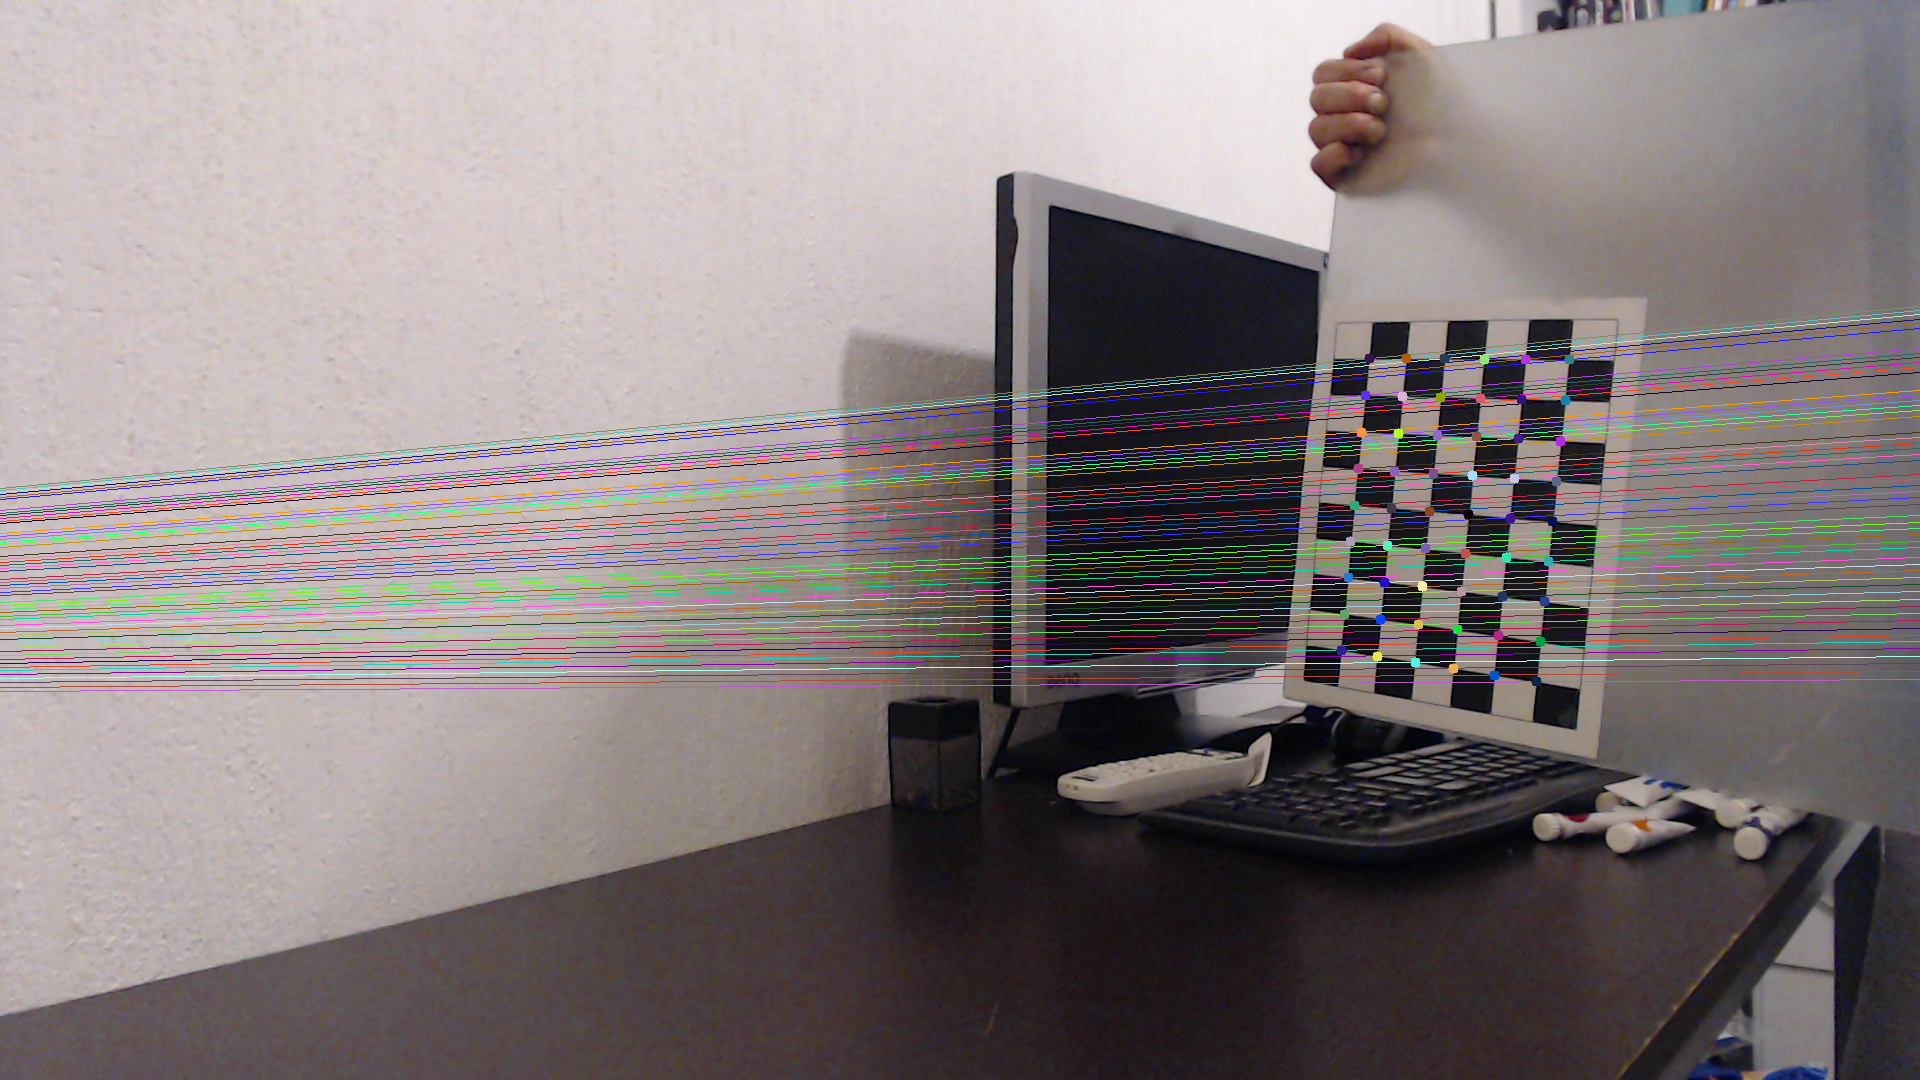
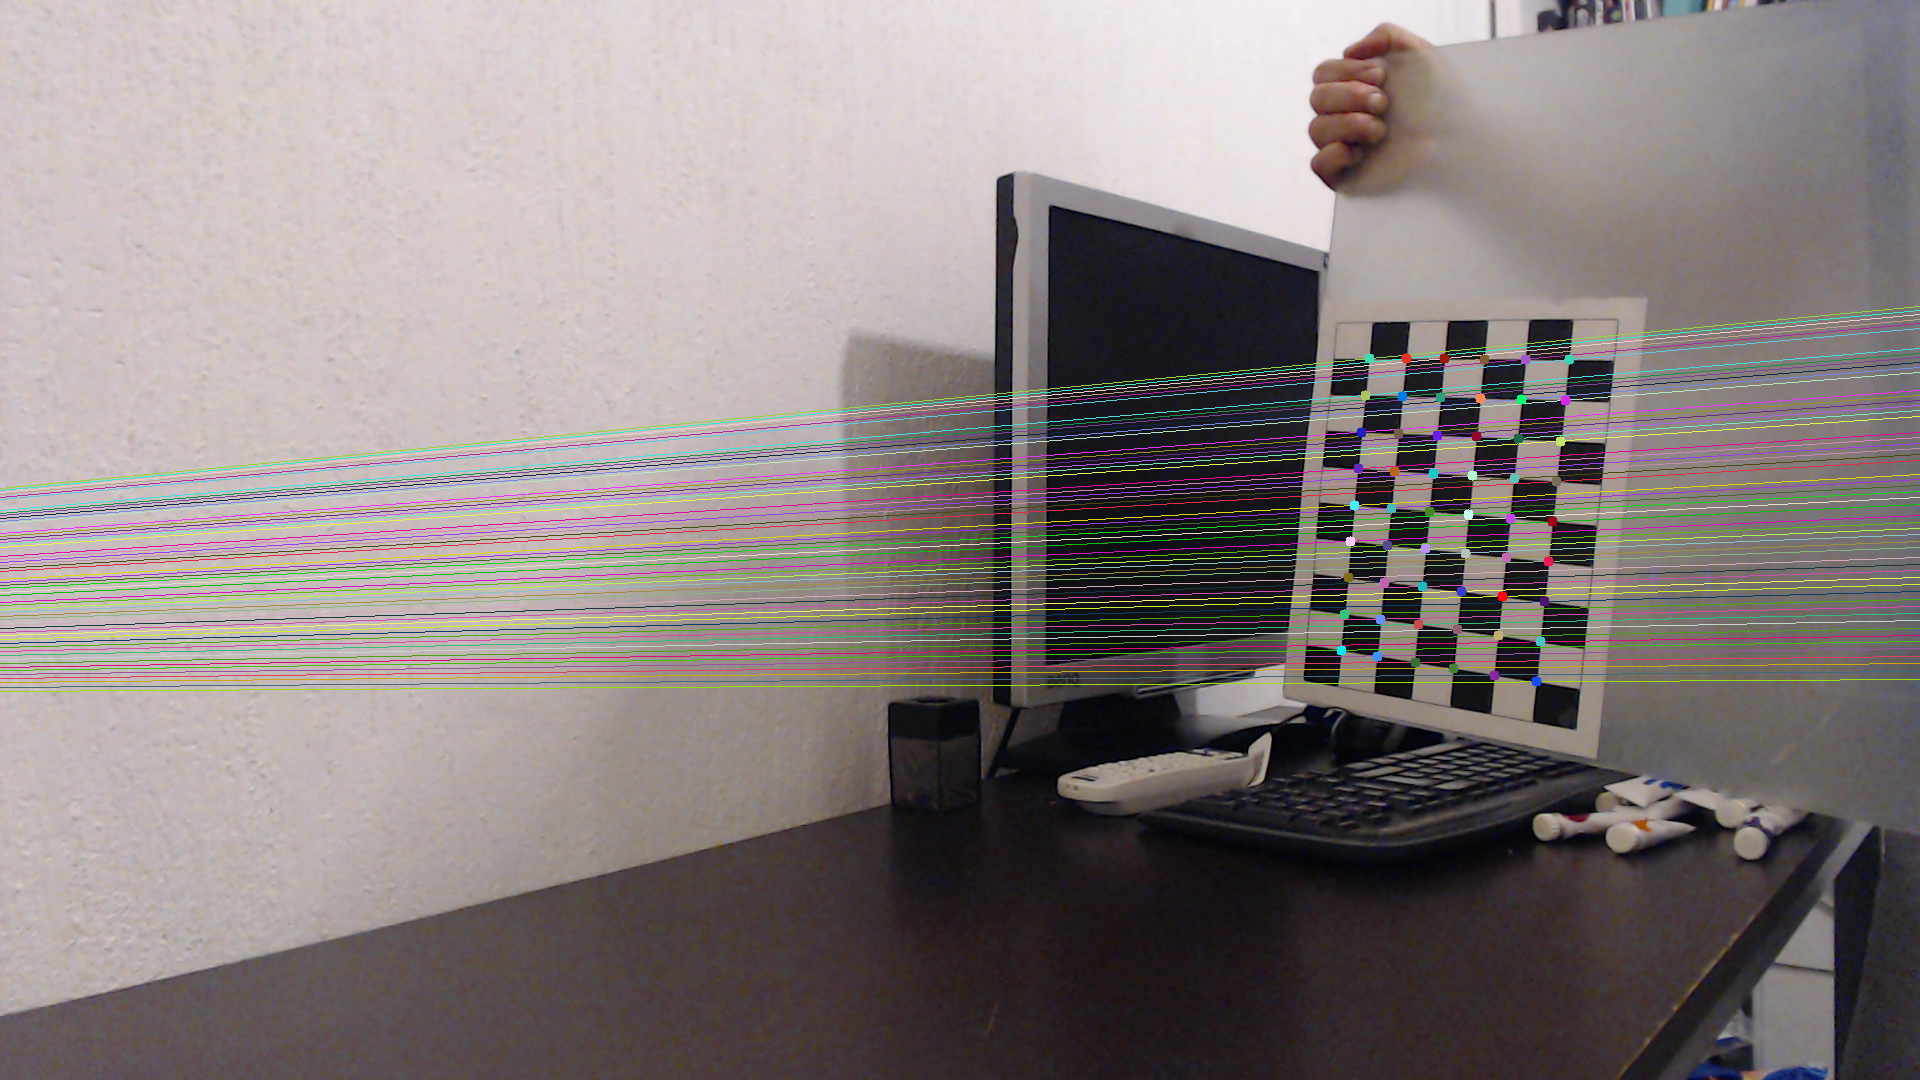
8 point algorithm program is working

Changed region(s): [[0.0, 0.275, 1.0, 0.6417]]

diff --git a/find_fund_matrix_8point.py b/find_fund_matrix_8point.py
@@ -82,7 +82,7 @@ else:
         # -- Read the file and convert in greyscale
         img_r = cv2.imread(fname)
         # Clone the original image to keep original unchanged
-        img1 = img_r.copy()
+        img2 = img_r.copy()
         # Convert to grayscale
         gray = cv2.cvtColor(img_r, cv2.COLOR_BGR2GRAY)
         print("Reading image ", fname)
@@ -131,7 +131,7 @@ else:
         # -- Read the file and convert in greyscale
         img_l = cv2.imread(fname)
         # Clone the original image to keep original unchanged
-        img2 = img_l.copy()
+        img1 = img_l.copy()
         # Convert to grayscale
         gray = cv2.cvtColor(img_l, cv2.COLOR_BGR2GRAY)
         print("Reading image ", fname)
@@ -209,10 +209,88 @@ coord_left = np.flipud(left_coord)
 # Add z coordinates with ones
 z_coord = np.ones((54, 1), np.float32)
 # Now, join z coordinates to the left of RIGHT coordinates
-right_coord = np.concatenate((right_coord, z_coord), axis=1)
-left_coord = np.concatenate((left_coord, z_coord), axis=1)
+right_coord = np.concatenate((coord_right, z_coord), axis=1)
+left_coord = np.concatenate((coord_left, z_coord), axis=1)
 
+# Reshape to 3 * 54
+#coord_right = np.reshape(right_coord,(3,54))
+#coord_left = np.reshape(left_coord,(3,54))
+coord_right = right_coord.T
+coord_left = left_coord.T
+# - - - - - - - - - -  New Code  - - - - - - - - - - - - - -
 
+def compute_fundamental(x1x,x2x):
+    """ Computes the fundamental matrix from corresponding points
+                (x1x,x2x 3*n arrays) using the 8 point algorithm.
+                Each row in the Ax matrix below is constructed as
+                [x*x', x*y', x, y*x', y*y', y, x', y', 1]
+    """
+    n = x1x.shape[1]
+    if x2x.shape[1] != n:
+        raise ValueError("Number of points don't match.")
+
+    '''
+    Your Code Here!
+    '''
+    # build matrix for equations
+    Ax = np.zeros((n,9))
+    indice = 0
+
+    # [x*x', x*y', x, y*x', y*y', y, x', y', 1]
+    while indice < n:
+        Ax[indice][0] = x1x[0][indice] * x2x[0][indice]  # x*x'
+        Ax[indice][1] = x1x[0][indice] * x2x[1][indice]  # x*y'
+        Ax[indice][2] = x1x[0][indice]                   # x
+        Ax[indice][3] = x1x[1][indice] * x2x[0][indice]  # y*x'
+        Ax[indice][4] = x1x[1][indice] * x2x[1][indice]  # y*y'
+        Ax[indice][5] = x1x[1][indice]                   # y
+        Ax[indice][6] = x2x[0][indice]                   # x'
+        Ax[indice][7] = x2x[1][indice]                   # y'
+        Ax[indice][8] = 1
+        indice += 1
+
+    '''
+    Your Code End!
+    '''
+    # compute linear least square solution
+    U,S,V = np.linalg.svd(Ax)
+    Fx2 = V[-1].reshape(3,3)
+
+    # constrain Fx2
+    # make rank 2 by zeroing out last singular value
+    U,S,V = np.linalg.svd(Fx2)
+    S[2] = 0
+    Fx2 = np.dot(U,np.dot(np.diag(S),V))
+    return Fx2/Fx2[2,2]
+
+def fundamental_matrix(x1x,x2x):
+    n = x1x.shape[1]
+    if x2x.shape[1] != n:
+        raise ValueError("Number of points don't match.")
+    # normalize image coordinates
+    x1x = x1x / x1x[2]
+    mean_1 = np.mean(x1x[:2],axis=1)
+    S1 = np.sqrt(2) / np.std(x1x[:2])
+    T1 = np.array([[S1,0,-S1*mean_1[0]],[0,S1,-S1*mean_1[1]],[0,0,1]])
+    x1x = np.dot(T1,x1x)
+    x2x = x2x / x2x[2]
+    mean_2 = np.mean(x2x[:2],axis=1)
+    S2 = np.sqrt(2) / np.std(x2x[:2])
+    T2 = np.array([[S2,0,-S2*mean_2[0]],[0,S2,-S2*mean_2[1]],[0,0,1]])
+    x2x = np.dot(T2,x2x)
+    # compute Fx with the normalized coordinates
+    Fx = compute_fundamental(x1x,x2x)
+    # reverse normalization
+    Fx = np.dot(T1.T,np.dot(Fx,T2))
+
+    return Fx/Fx[2,2]
+
+# - - - - - - - - - -  Normalisation process  - - - - - - - - - - - - - -
+
+F4 = fundamental_matrix(coord_left, coord_right)
+
+coord_right = coord_right.T
+coord_left = coord_left.T
 
 right_coord = right_coord.T  # transpose from 54 x 3 to 3 x 54
 left_coord = left_coord.T  # transpose from 54 x 3 to 3 x 54
@@ -220,11 +298,10 @@ left_coord = left_coord.T  # transpose from 54 x 3 to 3 x 54
 # Create the normalisation matrix
 norm = np.array([[1.041666667E-03, 0, -1], [0, 1.851851852E-03, -1], [0, 0, 1]])
 # Normalise using the normalisation matrix (RIGHT), rename as x_1
-
-x_1 = np.matmul(norm, right_coord)
+x_1 = np.matmul(norm, left_coord)
 # Normalise using the normalisation matrix (LEFT), rename as x2
+x2 = np.matmul(norm.T, right_coord)
 
-x2 = np.matmul(norm, left_coord)
 # - - - - - - - - - - - - - - - - - - - - - - - - - - - - - - - - - - - - - - -
 
 # Create matrix A from the correlated points of left and right coordinates
@@ -256,28 +333,25 @@ no_use, F = np.array_split(vh, [8], axis=1)
 # re-arrange Fundamental Matrix
 F = np.reshape(F, (3, 3))
 
-F = F.T
+# HASTA AQUI
 
 u, s, vh = np.linalg.svd(F, full_matrices=True)
 
+#s[2] = 0
+#s = np.reshape(s, (3, 1))
 D = np.zeros((3, 3), np.float32)
 D[0][0] = s[0]
 D[1][1] = s[1]
 
-F = np.matmul(u, D)
-F = np.matmul(F, vh.T)
-
-# no_use, F = np.array_split(vh, [2], axis=1)
-# D = np.zeros((3, 3), np.float32)
-# D[0][0] = F[0]
-# D[1][1] = F[1]
-# D[0][0] = s[0][0]
-# fund_mat = np.matmul(u, D)
-# fund_mat = np.matmul(fund_mat, vh)
+F1 = np.matmul(u, D)
+F1 = np.matmul(F1, vh)
 
 # De-normalise
-F = np.matmul(norm.T, F)
-F = np.matmul(F, norm)
+F3 = np.matmul(norm.T, F1)
+F3 = np.matmul(F3, norm)
+
+F = F3
+F = F/F[2][2]
 
 # test
 # test_1 = np.array([.16066337, .42508912, 1])
@@ -286,27 +360,11 @@ F = np.matmul(F, norm)
 test_1 = np.array([380, 245, 1])
 test_2 = np.array([[927], [429], [1]])
 
-result = np.matmul(test_1, F1)
-result2 = np.reshape(result, (1, 3))
-result2 = np.linalg.pinv(result2)
+result = np.matmul(test_1, F)
 result = np.matmul(result, test_2)
 
-# Find epilines corresponding to points in right image (second image) and
-# drawing its lines on left image
-lines1 = cv2.computeCorrespondEpilines(left_coord_x.reshape(-1, 1, 2), 2, F)
-lines1 = lines1.reshape(-1, 3)
-img5, img6 = drawlines(img1, img2, lines1, right_coord_x, left_coord_x)
-# Find epilines corresponding to points in left image (first image) and
-# drawing its lines on right image
-lines2 = cv2.computeCorrespondEpilines(right_coord_x.reshape(-1, 1, 2), 1, F)
-lines2 = lines2.reshape(-1, 3)
-img3, img4 = drawlines(img2, img1, lines2, left_coord_x, right_coord_x)
-plt.subplot(121), plt.imshow(img5)
-plt.subplot(122), plt.imshow(img3)
-plt.show()
-
-cv2.destroyAllWindows()
-
+coord_left, no_use = np.array_split(coord_left, [2], axis=1)
+coord_right, no_use = np.array_split(coord_right, [2], axis=1)
 
 # - - - - - - - - - - - - - - - - - - - - - - - - - - - - - - - - - - - - - - -
 # Draw epipolar images using F calculated with 8 point algorithm
@@ -338,17 +396,17 @@ def drawlines(img_a, img_b, lines, pts1, pts2):
 
 # Find epilines corresponding to points in right image (second image) and
 # drawing its lines on left image
-lines1 = cv2.computeCorrespondEpilines(coord_left.reshape(-1, 1, 2), 2, F1)
+lines1 = cv2.computeCorrespondEpilines(coord_left.reshape(-1, 1, 2), 2, F4)
 lines1 = lines1.reshape(-1, 3)
 
 # noinspection PyUnboundLocalVariable
-img5, img6 = drawlines(img1, img2, lines1, coord_right, coord_left)
+img5, img6 = drawlines(img2, img1, lines1, coord_right, coord_left)
 
 # Find epilines corresponding to points in left image (first image) and
 # drawing its lines on right image
-lines2 = cv2.computeCorrespondEpilines(coord_right.reshape(-1, 1, 2), 1, F1)
+lines2 = cv2.computeCorrespondEpilines(coord_right.reshape(-1, 1, 2), 1, F4)
 lines2 = lines2.reshape(-1, 3)
-img3, img4 = drawlines(img2, img1, lines2, coord_left, coord_right)
+img3, img4 = drawlines(img1, img2, lines2, coord_left, coord_right)
 
 # Show plot of the two epipolar line images
 plt.subplot(121),plt.imshow(img5)
@@ -356,8 +414,8 @@ plt.subplot(122),plt.imshow(img3)
 plt.show()
 
 # Save results in results folder
-cv2.imwrite(workingFolder + "/results/img1.png", img1)
-cv2.imwrite(workingFolder + "/results/img2.png", img2)
+cv2.imwrite(workingFolder + "/results/img1_8point.png", img1)
+cv2.imwrite(workingFolder + "/results/img2_8point.png", img2)
 
 
 # - - - - - - - - - END of the program - - - - - - - - - - - - -

diff --git a/find_fund_matrix.py b/find_fund_matrix.py
@@ -236,153 +236,3 @@ cv2.imwrite(workingFolder + "/results/img2.png", img2)
 
 
 # - - - - - - - - - END of the programming part that finds F using OpenCV tools - - - - - - - - - - - - -
-
-
-# - - - - - - - - ***** CODE BELOW NEEDS TO BE UPDATED ***** - - - - - - - - -
-
-# Convert the pixel coordinates into normalised coordinates (-1 to 1) with the centroid ( 0 ) at the center
-# of the image.
-
-# --- Normalise RIGHT image coordinates
-
-# Extract the coordinates from the image points list (3 dimension array)
-right_coord = np.array(imgpoints_r[0])  # convert from list to array
-right_coord = np.squeeze(right_coord)  # Convert to 2 dimension array
-# x_coord, y_coord = np.array_split(right_coord, 2, 1)  # Split array into x_coord and y_coord
-
-# Normalize coordinates
-# x_coord = x_coord / (image_res_x / 2) - 1  # Normalise x_coord
-# y_coord = y_coord / (image_res_y / 2) - 1  # Normalise y_coord
-
-# Create Z column with ones
-z_coord = np.ones((54, 1), np.float32)
-
-# Join x and y coordinates into RIGHT coordinates
-# right_coord = np.concatenate((x_coord, y_coord), axis=1)
-# Now, join z coordinates to the left of RIGHT coordinates
-# right_coord = np.concatenate((right_coord, z_coord), axis=1)      *****
-
-# Vertically flip array
-coord_right = np.flipud(right_coord)
-
-# --- Normalise LEFT image coordinates
-
-# Extract the coordinates from the image points list (3 dimension array)
-left_coord = np.array(imgpoints_l[0])  # convert from list to array
-left_coord = np.squeeze(left_coord)  # Convert to 2 dimension array
-# x_coord, y_coord = np.array_split(left_coord, 2, 1)  # Split array into x_coord and y_coord
-
-# Normalize coordinates
-# x_coord = x_coord / (image_res_x / 2) - 1  # Normalise x_coord
-# y_coord = y_coord / (image_res_y / 2) - 1  # Normalise y_coord
-
-# Join x and y coordinates into RIGHT coordinates
-# left_coord = np.concatenate((x_coord, y_coord), axis=1)
-# Now, join z coordinates to the left of LEFT coordinates
-# left_coord = np.concatenate((left_coord, z_coord), axis=1)    *****
-
-# Vertically flip array
-coord_left = np.flipud(left_coord)
-
-# - - - - - - - - - - - - - - - - - - - - - - - - - - - - - - - - - - - - - - -
-# Find the fundamental matrix and use OpenCV routine for comparison
-F1, mask = cv2.findFundamentalMat(right_coord, left_coord, cv2.FM_8POINT)
-
-# We select only inlier points
-coord_right = coord_right[mask.ravel() == 1]
-coord_left = coord_left[mask.ravel() == 1]
-
-# - - - - - - - - ***** CODE ABOVE NEEDS TO BE UPDATED ***** - - - - - - - - -
-
-right_coord = right_coord.T  # transpose from 54 x 3 to 3 x 54
-left_coord = left_coord.T  # transpose from 54 x 3 to 3 x 54
-
-# Create the normalisation matrix
-norm = np.array([[1.041666667E-03, 0, -1], [0, 1.851851852E-03, -1], [0, 0, 1]])
-# Normalise using the normalisation matrix (RIGHT), rename as x_1
-
-x_1 = np.matmul(norm, right_coord)
-# Normalise using the normalisation matrix (LEFT), rename as x2
-
-x2 = np.matmul(norm, left_coord)
-# - - - - - - - - - - - - - - - - - - - - - - - - - - - - - - - - - - - - - - -
-
-# Create matrix A from the correlated points of left and right coordinates
-
-A = np.zeros((54, 9), np.float32)
-indice = 0
-
-while indice < 54:
-    A[indice][0] = x_1[0][indice] * x2[0][indice]
-    A[indice][1] = x_1[1][indice] * x2[0][indice]
-    A[indice][2] = x2[0][indice]
-    A[indice][3] = x_1[0][indice] * x2[1][indice]
-    A[indice][4] = x_1[1][indice] * x2[1][indice]
-    A[indice][5] = x2[1][indice]
-    A[indice][6] = x_1[0][indice]
-    A[indice][7] = x_1[1][indice]
-    A[indice][8] = 1
-    indice += 1
-
-# - - - - - - - - - - - - - - - - - - - - - - - - - - - - - - - - - - - - - - -
-
-# Calculate SVD
-# A = A.T
-u, s, vh = np.linalg.svd(A, full_matrices=True)
-
-# extract the last column of matrix vh
-no_use, F = np.array_split(vh, [8], axis=1)
-
-# re-arrange Fundamental Matrix
-F = np.reshape(F, (3, 3))
-
-F = F.T
-
-u, s, vh = np.linalg.svd(F, full_matrices=True)
-
-D = np.zeros((3, 3), np.float32)
-D[0][0] = s[0]
-D[1][1] = s[1]
-
-F = np.matmul(u, D)
-F = np.matmul(F, vh.T)
-
-# no_use, F = np.array_split(vh, [2], axis=1)
-# D = np.zeros((3, 3), np.float32)
-# D[0][0] = F[0]
-# D[1][1] = F[1]
-# D[0][0] = s[0][0]
-# fund_mat = np.matmul(u, D)
-# fund_mat = np.matmul(fund_mat, vh)
-
-# De-normalise
-F = np.matmul(norm.T, F)
-F = np.matmul(F, norm)
-
-# test
-# test_1 = np.array([.16066337, .42508912, 1])
-# test_2 = np.array([[-.25848138], [.2863686], [1]])
-
-test_1 = np.array([380, 245, 1])
-test_2 = np.array([[927], [429], [1]])
-
-result = np.matmul(test_1, F1)
-result2 = np.reshape(result, (1, 3))
-result2 = np.linalg.pinv(result2)
-result = np.matmul(result, test_2)
-
-# Find epilines corresponding to points in right image (second image) and
-# drawing its lines on left image
-lines1 = cv2.computeCorrespondEpilines(left_coord_x.reshape(-1, 1, 2), 2, F)
-lines1 = lines1.reshape(-1, 3)
-img5, img6 = drawlines(img1, img2, lines1, right_coord_x, left_coord_x)
-# Find epilines corresponding to points in left image (first image) and
-# drawing its lines on right image
-lines2 = cv2.computeCorrespondEpilines(right_coord_x.reshape(-1, 1, 2), 1, F)
-lines2 = lines2.reshape(-1, 3)
-img3, img4 = drawlines(img2, img1, lines2, left_coord_x, right_coord_x)
-plt.subplot(121), plt.imshow(img5)
-plt.subplot(122), plt.imshow(img3)
-plt.show()
-
-cv2.destroyAllWindows()
